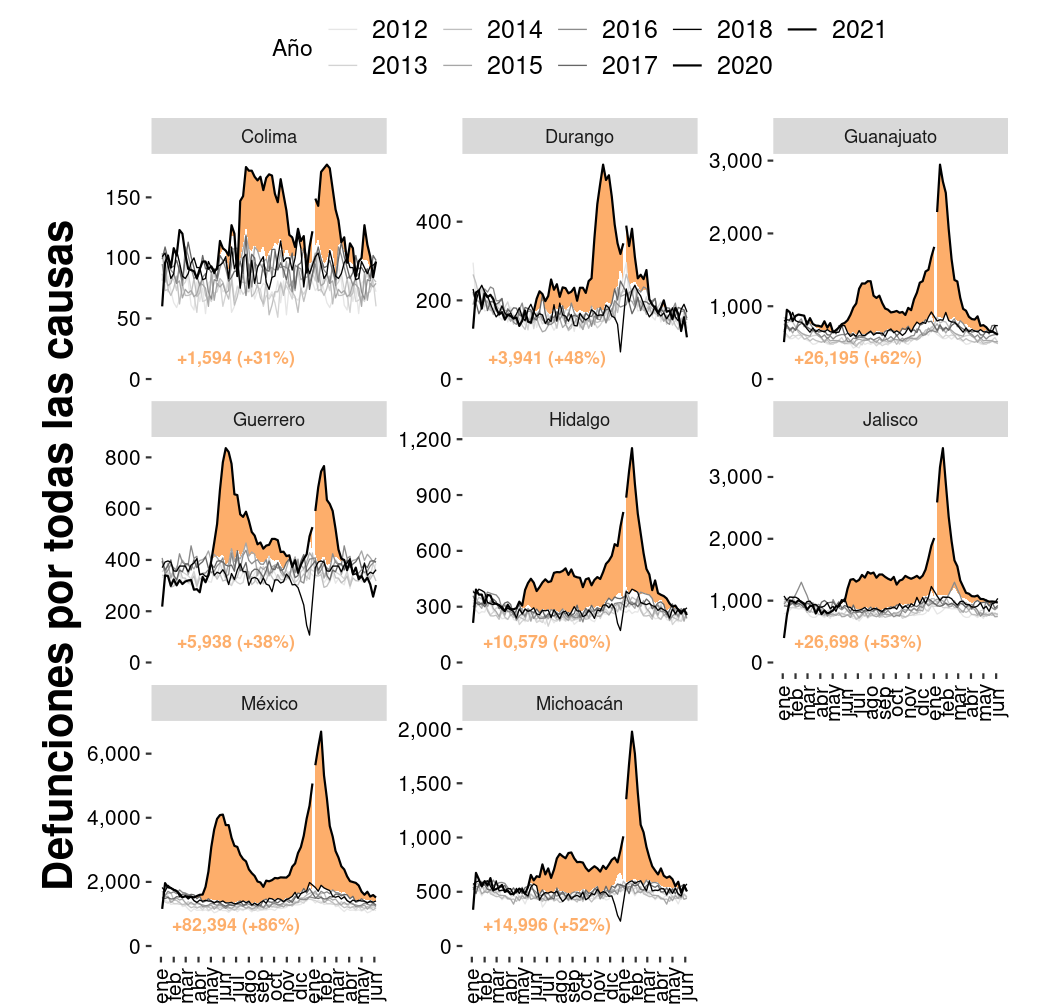
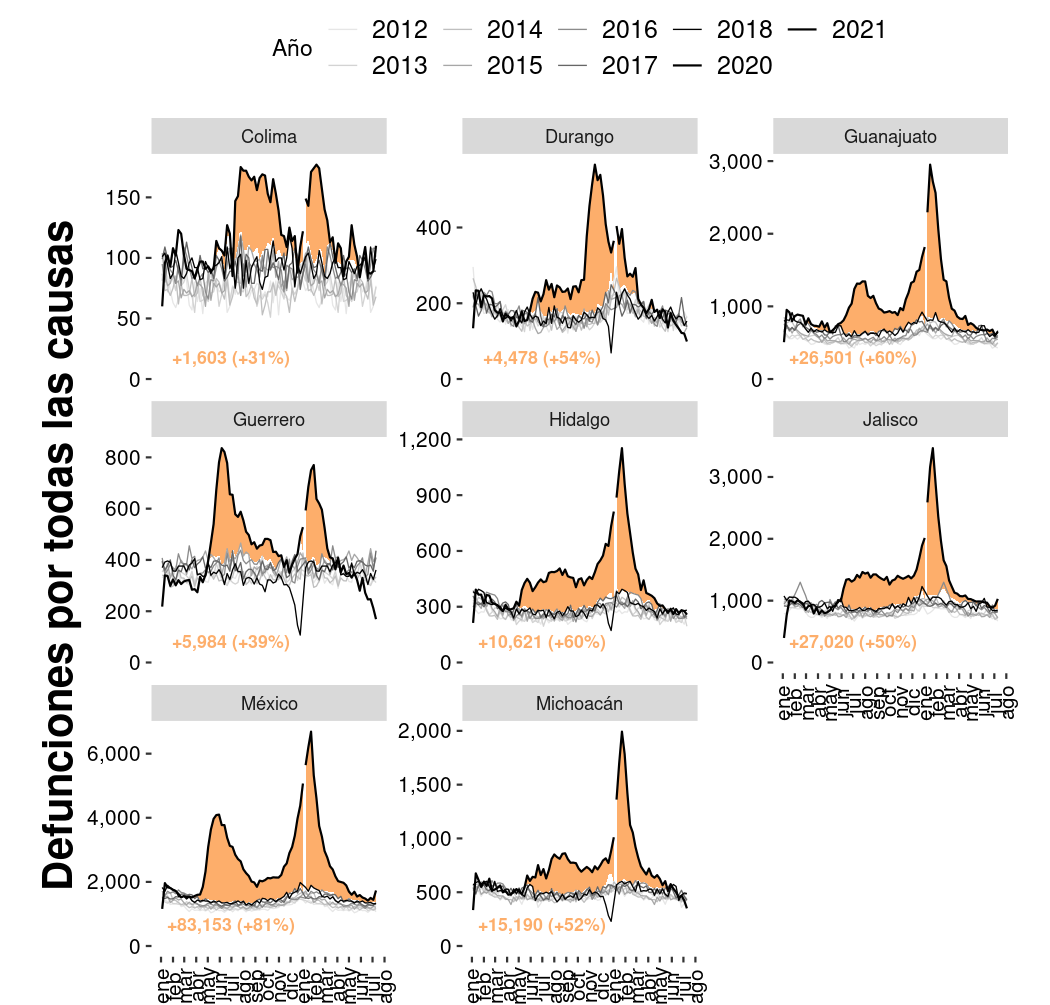
Exceso de mortalidad 2021-07-31

diff --git a/content/muertes/exceso_mortalidad_nacional.md b/content/muertes/exceso_mortalidad_nacional.md
@@ -11,8 +11,10 @@ son diagnosticadas. En
 <a href="https://www.economist.com/graphic-detail/2020/07/15/tracking-covid-19-excess-deaths-across-countries">países</a>
 se ha observado que la pandemia provoca un <i>exceso de mortalidad</i>.</p>
 
-<p>En México, desde el inicio de la pandemia y hasta el 5 de junio de 2021
-se han registrado <b>62% más defunciones</b> que en el mismo periodo de años
+<p>En México, tenemos datos de todo el 2020, y hasta hasta el 10 de
+julio de 2021. Afortunadamente, desde junio de 2021 no se ha detectado un exceso
+de mortalidad. Lamentablemente, en los catorce meses más duros de la epidemia,
+se registraron <b>62% más defunciones</b> que en el mismo periodo de años
 previos.
 Estos números son preliminares ya que el catálogo nacional de defunciones
 tarda dos años en finalizarse.</p>

diff --git a/content/muertes/exceso_mortalidad_estados3.md b/content/muertes/exceso_mortalidad_estados3.md
@@ -8,7 +8,7 @@ medir el costo humano en cada entidad.</p>
 
 <p>Estas gráficas muestran el
 <a href="#exceso_mortalidad_nacional"><i>exceso de mortalidad</i></a>
-hasta el 5 de junio de 2021 para 8 de las 32 entidades federativas del país.
+con datos hasta el 10 de julio de 2021 para 8 de las 32 entidades federativas del país.
 La región con color indica las semanas con <i>exceso de mortalidad</i>.
 Se indica el número absoluto de exceso de mortalidad para canda entidad y el
 incremento porcentual. Las entidades federativas están organizadas

diff --git a/content/muertes/exceso_mortalidad_estados4.md b/content/muertes/exceso_mortalidad_estados4.md
@@ -8,7 +8,7 @@ medir el costo humano en cada entidad.</p>
 
 <p>Estas gráficas muestran el
 <a href="#exceso_mortalidad_nacional"><i>exceso de mortalidad</i></a>
-hasta el 5 de junio de 2021 para 8 de las 32 entidades federativas del país.
+con datos hasta el 10 de julio de 2021 para 8 de las 32 entidades federativas del país.
 La región con color indica las semanas con <i>exceso de mortalidad</i>.
 Se indica el número absoluto de exceso de mortalidad para canda entidad y el
 incremento porcentual. Las entidades federativas están organizadas

diff --git a/content/muertes/exceso_mortalidad_estados1.md b/content/muertes/exceso_mortalidad_estados1.md
@@ -8,7 +8,7 @@ medir el costo humano en cada entidad.</p>
 
 <p>Estas gráficas muestran el
 <a href="#exceso_mortalidad_nacional"><i>exceso de mortalidad</i></a>
-hasta el 5 de junio para 8 de las 32 entidades federativas del país.
+con datos hasta el 10 de julio de 2021 para 8 de las 32 entidades federativas del país.
 La región con color indica las semanas con <i>exceso de mortalidad</i>.
 Se indica el número absoluto de exceso de mortalidad para canda entidad y el
 incremento porcentual. Las entidades federativas están organizadas

diff --git a/content/muertes/exceso_mortalidad_estados2.md b/content/muertes/exceso_mortalidad_estados2.md
@@ -8,7 +8,7 @@ medir el costo humano en cada entidad.</p>
 
 <p>Estas gráficas muestran el
 <a href="#exceso_mortalidad_nacional"><i>exceso de mortalidad</i></a>
-hasta el 5 de junio para 8 de las 32 entidades federativas del país.
+con datos hasta el 10 de julio de 2021 para 8 de las 32 entidades federativas del país.
 La región con color indica las semanas con <i>exceso de mortalidad</i>.
 Se indica el número absoluto de exceso de mortalidad para canda entidad y el
 incremento porcentual. Las entidades federativas están organizadas
